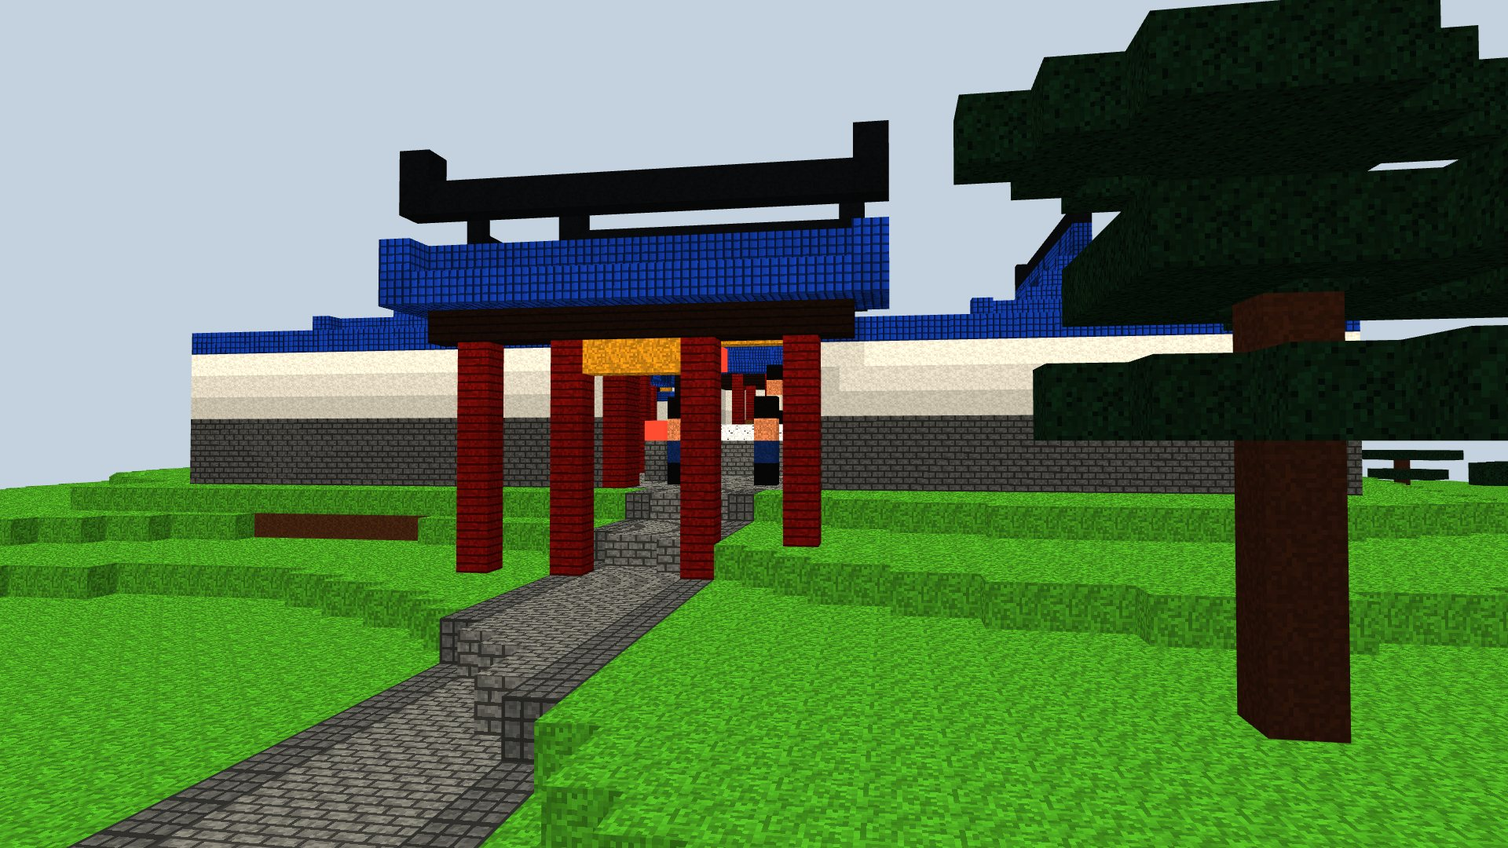
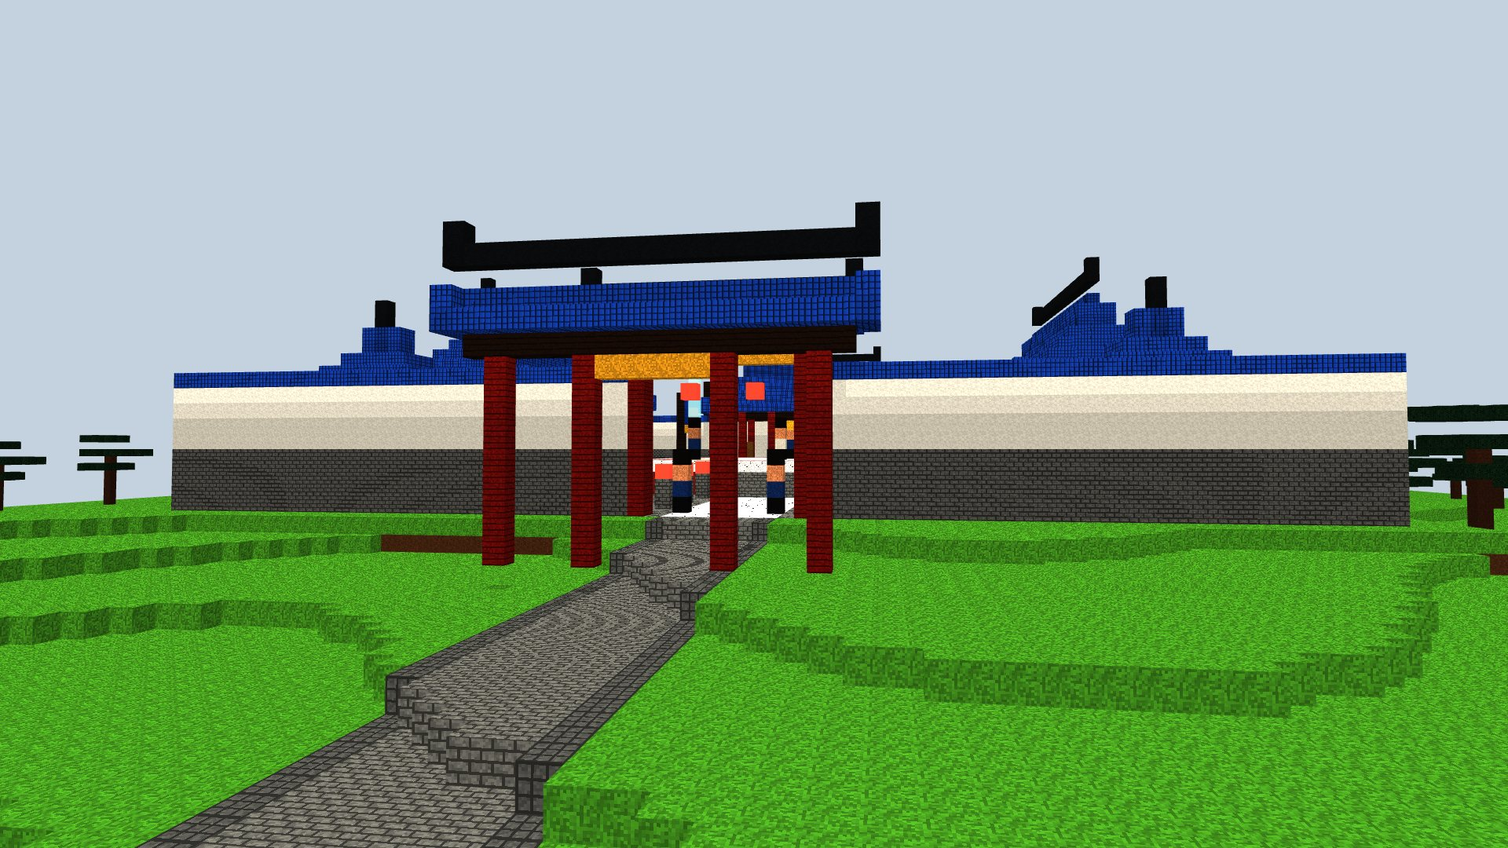
Enlarge the arena mock-up and let the captain summon his units
A 73 x 73 court and a 27 x 27 leitai, as Enzo asked, with four summoning
seals on the leitai and two troop halls for the captain's units.

diff --git a/scripts/concepts/arena.js b/scripts/concepts/arena.js
@@ -1,12 +1,15 @@
 // Voxel mock-up of the Orthodox Alliance's arena (docs/structures/alliance-arena.md), built with ST (st-runtime.js).
-// 1 voxel = 1 block. x east, z south, y up. A walled court round a leitai, the raised fighting platform of the Murim
-// where challenges are settled: whoever falls off loses. The captain waits on it. Stands east and west, the judges'
-// pavilion north, the gate and a paifang south.
+// 1 voxel = 1 block. x east, z south, y up. A great walled court round a leitai, the raised fighting platform of the
+// Murim where challenges are settled: whoever falls off loses. The captain waits on it and calls up his units: they
+// rise on the four summoning seals of the leitai and pour out of the two troop halls. Stands east and west, the
+// judges' pavilion north, the gate and a paifang south.
 window.ARENA = (() => {
   const S = ST;
   const P = 6;                 // the court
-  const W = 24;                // the walls (outer faces)
-  const L = 8, TOP = 3;        // half the leitai's side, its height above the court
+  const W = 36;                // the walls (outer faces): a court of 73 x 73
+  const L = 13, TOP = 3;       // half the leitai's side (27 x 27), its height above the court
+  const SEAL = 8;              // the summoning seals on the leitai, at (+-SEAL, +-SEAL)
+  const SF = L + 8, SB = W - 3, SZ = 18;   // the stands: front and back x, half their length
 
   function height(x, z) {
     const inside = Math.abs(x) <= W + 3 && z >= -W - 3 && z <= W + 3;
@@ -21,52 +24,68 @@ window.ARENA = (() => {
     S.fill(x + 1, y + h - 3, z, x + 1, y + h, z, 'banner_azure'); S.set(x + 1, y + h - 4, z, 'gold');
   }
 
-  /** A covered stand ({@code s}: -1 west, 1 east): three tiers rising away from the leitai, a gallery, columns, a roof. */
+  /** A covered stand (s: -1 west, 1 east): four tiers rising away from the leitai, a gallery, columns, a roof. */
   function stand(s) {
-    const front = 14 * s, back = 22 * s;
-    for (let z = -14; z <= 14; z++) {
-      for (let i = 0; i < 3; i++) S.fill(front + i * s, P + 1, z, front + i * s, P + 1 + i, z, 'stone_brick');
-      S.fill(Math.min(17 * s, back), P + 1, z, Math.max(17 * s, back), P + 3, z, 'stone_brick');
-      S.fill(Math.min(17 * s, back), P + 4, z, Math.max(17 * s, back), P + 4, z, 'wood_dark');
+    const front = SF * s, back = SB * s, gal = (SF + 4) * s;
+    for (let z = -SZ; z <= SZ; z++) {
+      for (let i = 0; i < 4; i++) S.fill(front + i * s, P + 1, z, front + i * s, P + 1 + i, z, 'stone_brick');
+      S.fill(Math.min(gal, back), P + 1, z, Math.max(gal, back), P + 4, z, 'stone_brick');
+      S.fill(Math.min(gal, back), P + 5, z, Math.max(gal, back), P + 5, z, 'wood_dark');
     }
-    for (let z = -14; z <= 14; z += 7) { S.fill(front, P + 1, z, front, P + 7, z, 'red'); S.fill(back, P + 5, z, back, P + 7, z, 'red'); }
-    for (let z = -14; z <= 14; z++) if (z % 7 !== 0) { S.fill(back, P + 5, z, back, P + 6, z, 'white'); S.set(back, P + 7, z, 'wood_dark'); }
-    S.roof(Math.min(front, back), -14, Math.max(front, back), 14, P + 8, { type: 'hip', mat: 'tile_azure', overhang: 2 });
+    for (let z = -SZ; z <= SZ; z += 6) { S.fill(front, P + 1, z, front, P + 9, z, 'red'); S.fill(back, P + 6, z, back, P + 9, z, 'red'); }
+    for (let z = -SZ; z <= SZ; z++) if (z % 6 !== 0) { S.fill(back, P + 6, z, back, P + 8, z, 'white'); S.set(back, P + 9, z, 'wood_dark'); }
+    S.roof(Math.min(front, back), -SZ, Math.max(front, back), SZ, P + 10, { type: 'hip', mat: 'tile_azure', overhang: 1 });
+  }
+
+  /** A troop hall in a south corner of the court (s: -1 west, 1 east), its wide doors open towards the leitai. */
+  function troopHall(s) {
+    const x0 = Math.min(22 * s, 32 * s), x1 = Math.max(22 * s, 32 * s), z0 = 23, z1 = 32;
+    S.fill(x0 - 1, P + 1, z0 - 1, x1 + 1, P + 1, z1 + 1, 'stone_brick');
+    for (let y = P + 2; y <= P + 6; y++) for (let x = x0; x <= x1; x++) for (let z = z0; z <= z1; z++) {
+      if (x !== x0 && x !== x1 && z !== z0 && z !== z1) continue;
+      const column = (x - x0) % 5 === 0 && (z === z0 || z === z1) || (z - z0) % 3 === 0 && (x === x0 || x === x1);
+      S.set(x, y, z, column ? 'red' : 'white');
+    }
+    for (let y = P + 2; y <= P + 5; y++) for (let i = 0; i < 5; i++) S.set((25 + i) * s, y, z0, 'wood_dark');   // the doors
+    for (let x = x0; x <= x1; x++) S.set(x, P + 6, z0, 'wood_dark');
+    S.roof(x0, z0, x1, z1, P + 7, { type: 'hip', mat: 'tile_azure', overhang: 2 });
+    banner(24 * s, P + 1, z0 - 2, 8);
   }
 
   function build() {
     S.clear();
     const r = S.seeded(777);
-    S.ground(-90, -80, 90, 100, height, () => 'grass', 'dirt', 3);
+    S.ground(-110, -100, 110, 120, height, () => 'grass', 'dirt', 3);
 
     // The road from the south, through a paifang, to the gate.
-    for (let z = W + 1; z <= 100; z++) for (let x = -2; x <= 2; x++) S.set(x, height(x, z), z, Math.abs(x) === 2 ? 'cobble' : 'stone_brick');
+    for (let z = W + 1; z <= 120; z++) for (let x = -3; x <= 3; x++) S.set(x, height(x, z), z, Math.abs(x) === 3 ? 'cobble' : 'stone_brick');
 
-    // The court: flagstones.
+    // The court: flagstones, a pale way from the gate to the leitai.
     S.fill(-W, P, -W, W, P, W, 'stone_brick');
     for (let x = -W + 2; x <= W - 2; x++) for (let z = -W + 2; z <= W - 2; z++) if (r() < 0.25) S.set(x, P, z, 'stone');
+    S.fill(-3, P, L + 1, 3, P, W, 'marble');
 
     // The walls: stone, white, azure coping; the gate passage open.
     for (let x = -W; x <= W; x++) for (let z = -W; z <= W; z++) {
       const ring = Math.min(x + W, W - x, z + W, W - z);
-      if (ring > 1 || (Math.abs(x) <= 3 && z >= W - 1)) continue;
-      S.fill(x, P + 1, z, x, P + 3, z, 'stone_brick');
-      S.fill(x, P + 4, z, x, P + 6, z, 'white');
-      S.set(x, P + 7, z, 'tile_azure');
+      if (ring > 1 || (Math.abs(x) <= 4 && z >= W - 1)) continue;
+      S.fill(x, P + 1, z, x, P + 4, z, 'stone_brick');
+      S.fill(x, P + 5, z, x, P + 8, z, 'white');
+      S.set(x, P + 9, z, 'tile_azure');
     }
-    for (const x of [-16, -8, 8, 16]) banner(x, P + 7, -W + 1, 5);
+    for (const x of [-26, -16, 16, 26]) banner(x, P + 9, -W + 1, 5);
 
-    // The gate: red posts, a dark lintel faced with gold, an azure roof.
-    for (const x of [-4, 4]) S.fill(x, P + 1, W - 1, x, P + 8, W, 'red');
-    S.fill(-5, P + 8, W - 1, 5, P + 8, W, 'wood_dark');
-    S.fill(-3, P + 7, W, 3, P + 7, W, 'gold');
-    S.roof(-5, W - 1, 5, W, P + 9, { type: 'gable', mat: 'tile_azure', overhang: 1 });
-    S.set(0, P + 6, W - 1, 'lantern');
+    // The gate: red posts, a dark lintel faced with gold, an azure roof, lanterns.
+    for (const x of [-5, 5]) S.fill(x, P + 1, W - 1, x, P + 11, W, 'red');
+    S.fill(-7, P + 11, W - 1, 7, P + 11, W, 'wood_dark');
+    S.fill(-4, P + 10, W, 4, P + 10, W, 'gold');
+    S.roof(-7, W - 1, 7, W, P + 12, { type: 'gable', mat: 'tile_azure', overhang: 1 });
+    for (const x of [-2, 2]) S.set(x, P + 8, W - 1, 'lantern');
     // The paifang where the road arrives.
-    const pz = W + 10, py = height(0, pz);
-    for (const x of [-5, -2, 2, 5]) S.fill(x, py + 1, pz, x, py + 7, pz, 'red');
-    S.fill(-6, py + 8, pz, 6, py + 8, pz, 'wood_dark'); S.fill(-1, py + 7, pz, 1, py + 7, pz, 'gold');
-    S.roof(-6, pz, 6, pz, py + 9, { type: 'gable', mat: 'tile_azure', overhang: 1 });
+    const pz = W + 14, py = height(0, pz);
+    for (const x of [-7, -3, 3, 7]) S.fill(x, py + 1, pz, x, py + 9, pz, 'red');
+    S.fill(-8, py + 10, pz, 8, py + 10, pz, 'wood_dark'); S.fill(-2, py + 9, pz, 2, py + 9, pz, 'gold');
+    S.roof(-8, pz, 8, pz, py + 11, { type: 'gable', mat: 'tile_azure', overhang: 1 });
 
     // ------------------------------------------------ the leitai
     const t = P + TOP;
@@ -76,63 +95,75 @@ window.ARENA = (() => {
       S.set(x, t, z, corner ? 'red' : 'marble');
       if (Math.max(Math.abs(x), Math.abs(z)) === L - 2) S.set(x, t, z, 'banner');   // the ring, in red
     }
-    for (const x of [-L, L]) for (const z of [-L, L]) { S.fill(x, t + 1, z, x, t + 4, z, 'red'); S.set(x, t + 5, z, 'lantern'); }
-    for (let i = 1; i <= TOP; i++) S.fill(-2, P + 1, L + i, 2, t - i, L + i, 'stone_brick');   // steps up from the gate side
-    // Banner poles at its corners.
-    for (const x of [-10, 10]) for (const z of [-10, 10]) banner(x, P, z, 9);
+    // The four summoning seals: gold rings on the leitai where the captain's units rise.
+    for (const sx of [-SEAL, SEAL]) for (const sz of [-SEAL, SEAL])
+      for (let dx = -1; dx <= 1; dx++) for (let dz = -1; dz <= 1; dz++) S.set(sx + dx, t, sz + dz, dx || dz ? 'gold' : 'tile_azure');
+    for (const x of [-L, L]) for (const z of [-L, L]) { S.fill(x, t + 1, z, x, t + 5, z, 'red'); S.set(x, t + 6, z, 'lantern'); }
+    for (let i = 1; i <= TOP; i++) S.fill(-3, P + 1, L + i, 3, t - i, L + i, 'stone_brick');   // steps up from the gate side
+    for (const x of [-L - 2, L + 2]) for (const z of [-L - 2, L + 2]) banner(x, P, z, 11);
 
-    // ------------------------------------------------ stands and the judges' pavilion
+    // ------------------------------------------------ stands, troop halls, the judges' pavilion
     stand(-1); stand(1);
-    // The pavilion: a raised floor, red columns open to the leitai, white walls, an azure hip roof.
-    S.fill(-9, P + 1, -22, 9, P + 2, -15, 'stone_brick');
-    S.fill(-3, P + 1, -14, 3, P + 1, -13, 'stone_brick');
-    S.fill(-3, P + 2, -14, 3, P + 2, -14, 'stone_brick');
-    for (let y = P + 3; y <= P + 8; y++) for (let x = -9; x <= 9; x++) for (let z = -22; z <= -15; z++) {
-      const back = z === -22, side = Math.abs(x) === 9, front = z === -15;
-      const column = (front || back) && Math.abs(x) % 3 === 0 || side && (back || front);
+    troopHall(-1); troopHall(1);
+    const pz0 = -W + 3, pz1 = -W + 11, px = 13;
+    S.fill(-px, P + 1, pz0, px, P + 2, pz1, 'stone_brick');
+    for (let i = 1; i <= 2; i++) S.fill(-4, P + 1, pz1 + i, 4, P + 3 - i, pz1 + i, 'stone_brick');
+    for (let y = P + 3; y <= P + 9; y++) for (let x = -px; x <= px; x++) for (let z = pz0; z <= pz1; z++) {
+      const back = z === pz0, side = Math.abs(x) === px, front = z === pz1;
+      const column = (front || back) && Math.abs(x) % 4 === 1 || side && (back || front);
       if (column) S.set(x, y, z, 'red');
-      else if (y === P + 8 && (front || back || side)) S.set(x, y, z, 'wood_dark');
+      else if (y === P + 9 && (front || back || side)) S.set(x, y, z, 'wood_dark');
       else if (back || side) S.set(x, y, z, 'white');
     }
-    S.roof(-9, -22, 9, -15, P + 9, { type: 'hip', mat: 'tile_azure', overhang: 2 });
-    // The captain's seat between gold, the Alliance's banners behind it, two bells.
-    S.set(0, P + 3, -21, 'wood_dark'); S.set(0, P + 4, -21, 'wood_dark'); S.set(-1, P + 3, -21, 'gold'); S.set(1, P + 3, -21, 'gold');
-    for (const x of [-4, -2, 2, 4]) S.fill(x, P + 4, -21, x, P + 6, -21, 'banner_azure');
-    for (const x of [-6, 6]) S.fill(x, P + 3, -20, x, P + 4, -20, 'bronze');
+    S.roof(-px, pz0, px, pz1, P + 10, { type: 'hip', mat: 'tile_azure', overhang: 2 });
+    // The captain's seat between gold, the Alliance's banners behind it, two great bells.
+    S.set(0, P + 3, pz0 + 1, 'wood_dark'); S.set(0, P + 4, pz0 + 1, 'wood_dark'); S.set(-1, P + 3, pz0 + 1, 'gold'); S.set(1, P + 3, pz0 + 1, 'gold');
+    for (const x of [-6, -3, 3, 6]) S.fill(x, P + 4, pz0 + 1, x, P + 7, pz0 + 1, 'banner_azure');
+    for (const x of [-9, 9]) S.fill(x, P + 3, pz0 + 2, x, P + 5, pz0 + 2, 'bronze');
 
     // ------------------------------------------------ round the court
-    for (const x of [-11, 11]) { S.set(x, P + 1, 17, 'stone_brick'); S.set(x, P + 2, 17, 'fire'); }          // braziers
-    for (const x of [-7, 7]) { S.set(x, P + 1, 20, 'wood_dark'); S.set(x, P + 2, 20, 'red_wall'); }          // war drums
-    for (const x0 of [-12, 9]) for (let i = 0; i < 4; i++) { S.set(x0 + i, P + 1, 21, 'wood_dark'); S.set(x0 + i, P + 2, 21, i % 2 ? 'armor' : 'wood_light'); }
-    for (const z of [14, 18]) for (const x of [-4, 4]) { S.fill(x, P + 1, z, x, P + 2, z, 'stone_brick'); S.set(x, P + 3, z, 'lantern'); }
+    for (const x of [-12, 12]) for (const z of [20, 28]) { S.set(x, P + 1, z, 'stone_brick'); S.set(x, P + 2, z, 'fire'); }   // braziers
+    for (const x of [-8, 8]) { S.set(x, P + 1, 31, 'wood_dark'); S.fill(x, P + 2, 31, x, P + 3, 31, 'red_wall'); }            // war drums
+    for (const x0 of [-20, 17]) for (let i = 0; i < 4; i++) { S.set(x0 + i, P + 1, -W + 2, 'wood_dark'); S.set(x0 + i, P + 2, -W + 2, i % 2 ? 'armor' : 'wood_light'); }
+    for (const z of [18, 24, 30]) for (const x of [-5, 5]) { S.fill(x, P + 1, z, x, P + 2, z, 'stone_brick'); S.set(x, P + 3, z, 'lantern'); }
 
     // ------------------------------------------------ people
-    S.person(0, t, 0, 'robe_blue', 'gold');                                // the captain, on the leitai
-    S.person(0, t, 4, 'robe_white');                                       // a challenger
-    for (const x of [-2, 2]) S.person(x, P, 21, 'robe_blue', 'hair');      // guards at the gate
-    for (const [x, z] of [[-19, -6], [-19, 2], [-15, 6], [-16, -10], [19, 0], [15, -4], [16, 8], [20, -10]])
-      S.person(x, x < 0 ? (x <= -17 ? P + 4 : P + 1 + (-14 - x)) : (x >= 17 ? P + 4 : P + 1 + (x - 14)), z, r() < 0.5 ? 'robe_white' : 'robe_blue');
+    S.person(0, t, -2, 'robe_blue', 'gold');                               // the captain, on the leitai
+    S.person(0, t, 6, 'robe_white');                                       // a challenger
+    // His units, called up: one on each seal, in a pillar of Qi; more pouring out of the troop halls.
+    for (const sx of [-SEAL, SEAL]) for (const sz of [-SEAL, SEAL]) {
+      S.person(sx, t, sz, 'robe_blue', 'hair');
+      for (let y = t + 5; y <= t + 9; y++) if (r() < 0.7) S.set(sx, y, sz, 'qi');
+    }
+    for (const s of [-1, 1]) for (const [x, z] of [[24, 20], [27, 19], [30, 21], [26, 16]]) S.person(x * s, P, z, 'robe_blue', 'hair');
+    for (const x of [-3, 3]) S.person(x, P, W - 3, 'robe_blue', 'hair');      // guards at the gate
+    for (let k = 0; k < 20; k++) {                                           // spectators on the stands
+      const s = k % 2 ? 1 : -1, tier = Math.floor(r() * 5), z = Math.round((r() - 0.5) * SZ * 2);
+      const x = tier < 4 ? (SF + tier) * s : (SF + 6 + Math.floor(r() * 4)) * s, y = tier < 4 ? P + 1 + tier : P + 5;
+      S.person(x, y, z, r() < 0.5 ? 'robe_white' : 'robe_blue');
+    }
 
     // Pines round about.
-    for (let k = 0; k < 40; k++) {
-      const x = Math.round((r() - 0.5) * 170), z = Math.round(-75 + r() * 170);
-      if (Math.abs(x) < 32 && z > -32 && z < 44) continue;
-      if (Math.abs(x) < 5) continue;
+    for (let k = 0; k < 50; k++) {
+      const x = Math.round((r() - 0.5) * 210), z = Math.round(-95 + r() * 210);
+      if (Math.abs(x) < 46 && z > -46 && z < 60) continue;
+      if (Math.abs(x) < 6) continue;
       S.pine(x, height(x, z), z, 5 + Math.floor(r() * 4), r);
     }
   }
 
   // ---------------------------------------------------------------- views
   const SKY = '#C3D2DE';
-  function overview() { build(); return { view: { unclamped: true, position: [70, 52, 82], target: [0, 6, 0], fov: 50 }, sky: SKY, fog: [260, 700] }; }
-  function gate() { build(); return { view: { unclamped: true, position: [8, 9, 58], target: [0, 10, 10], fov: 55 }, sky: SKY, fog: [200, 600] }; }
-  function leitai() { build(); return { view: { unclamped: true, position: [3, 21, 21], target: [0, 9, -8], fov: 62 }, sky: SKY, fog: [200, 600] }; }
+  function overview() { build(); return { view: { unclamped: true, position: [100, 72, 118], target: [0, 6, 0], fov: 50 }, sky: SKY, fog: [320, 800] }; }
+  function gate() { build(); return { view: { unclamped: true, position: [10, 11, 84], target: [0, 13, 20], fov: 55 }, sky: SKY, fog: [240, 700] }; }
+  function leitai() { build(); return { view: { unclamped: true, position: [4, 26, 30], target: [0, 9, -10], fov: 64 }, sky: SKY, fog: [240, 700] }; }
   function plan() {
     build();
     const marks = [
-      ['1', 0, P + 12, W], ['2', 0, P + 12, W + 10], ['3', 0, P + 8, 0], ['4', -18, P + 14, 0], ['5', 18, P + 14, 0],
-      ['6', 0, P + 16, -18], ['7', 10, P + 12, -10], ['8', -11, P + 5, 17], ['9', 7, P + 5, 20], ['10', 10, P + 5, 21]];
-    return { view: { unclamped: true, position: [0, 105, 62], target: [0, 6, 2], fov: 56 }, sky: SKY, fog: [400, 900], marks };
+      ['1', 0, P + 15, W], ['2', 0, P + 16, W + 14], ['3', 0, P + 9, 2], ['4', -27, P + 17, 0], ['5', 27, P + 17, 0],
+      ['6', 0, P + 19, -W + 7], ['7', SEAL, P + 9, SEAL], ['8', -27, P + 14, 27], ['9', 27, P + 14, 27],
+      ['10', L + 2, P + 15, -L - 2], ['11', -12, P + 6, 24], ['12', 8, P + 7, 31]];
+    return { view: { unclamped: true, position: [0, 150, 90], target: [0, 6, 4], fov: 56 }, sky: SKY, fog: [500, 1100], marks };
   }
 
   return { overview, gate, leitai, plan };

diff --git a/docs/structures/alliance-arena.md b/docs/structures/alliance-arena.md
@@ -1,12 +1,13 @@
 # Arène de l'Alliance orthodoxe — maquettes (proposition à valider par Enzo)
 
-> Demande d'Enzo du 15/10/2026 : « crée une structure pour l'Alliance, une sorte d'arène où il y aura le capitaine
-> dedans, une arène dans le style Murim », puis « fais-moi une maquette avant de construire quoi que ce soit ».
+> Demandes d'Enzo du 15/10/2026 : « crée une structure pour l'Alliance, une sorte d'arène où il y aura le capitaine
+> dedans, une arène dans le style Murim » ; « fais-moi une maquette avant de construire quoi que ce soit » ; « plus
+> grande l'arène, le boss pourra invoquer des unités ».
 >
-> **Statut : maquettes voxel, rien n'est construit en jeu.** Même couleurs que l'[avant-poste](alliance-outpost.md) :
+> **Statut : maquettes voxel, rien n'est construit en jeu.** Mêmes couleurs que l'[avant-poste](alliance-outpost.md) :
 > tuiles azur, ornements or, colonnes rouges, murs blancs. Le capitaine est le boss de l'Alliance de la session
 > « design » (`murimblock:peak_captain`, pas encore sur `test`), qui se bat avec la
-> [Lance du Pic Céleste](../combat/styles/celestial-peak-spear.md).
+> [Lance du Pic Céleste](../combat/styles/celestial-peak-spear.md) ; l'invocation d'unités est à ajouter à son combat.
 >
 > Maquettes : `node scripts/concepts/render-arena.cjs` (Blockbench isolé, `--port=` ; port 9232 par défaut), scène
 > dans `scripts/concepts/arena.js`. 1 voxel = 1 bloc. Les PNG rendus ont été convertis en JPG pour la doc.
@@ -16,11 +17,13 @@
 ## L'idée
 
 Un **leitai** (擂台), l'estrade de combat des romans Murim : une plateforme carrée surélevée où l'on règle les défis
-devant tout le monde ; **qui tombe de l'estrade a perdu**. L'Alliance y éprouve ses disciples et y reçoit les
-défis des inconnus. Le capitaine y attend, debout au centre : on monte les marches pour l'affronter.
+devant tout le monde ; **qui tombe de l'estrade a perdu**. L'Alliance y éprouve ses disciples et y reçoit les défis
+des inconnus. Le capitaine attend au centre. Pendant le combat, il **appelle ses unités** : elles surgissent dans une
+colonne de Qi sur les quatre sceaux dorés du leitai, et d'autres sortent en renfort des deux salles des troupes.
 
-- **Dimensions** : une cour fermée de **49 × 49 blocs** ; le leitai fait **17 × 17**, son plateau 3 blocs au-dessus
-  de la cour. Avec la route et l'arche, le site tient dans 57 × 71 blocs.
+- **Dimensions** : une cour fermée de **73 × 73 blocs** (murs de 10 de haut) ; le leitai fait **27 × 27**, son plateau
+  3 blocs au-dessus de la cour, assez large pour se battre contre le capitaine et quatre unités à la fois. Avec la
+  route et l'arche, le site tient dans environ 80 × 100 blocs.
 - **Où** : comme l'avant-poste, dans n'importe quel biome Murim mais **seulement au centre de la carte ou près
   d'une frontière entre régions** (les terres de l'Alliance). Plus rare que l'avant-poste.
 
@@ -30,16 +33,18 @@ défis des inconnus. Le capitaine y attend, debout au centre : on monte les marc
 
 | N° | Lieu | Ce que c'est | Qui y est |
 |---|---|---|---|
-| 1 | Porte | Poteaux rouges, linteau sombre à bandeau or, toit azur, lanterne | Deux gardes à la lance |
-| 2 | Arche (paifang) sur la route | Annonce l'arène à 10 blocs de la porte | — |
-| 3 | **Le leitai** | 17 × 17, jupe de planches rouges entre poteaux rouges, plateau de pierre lisse, cercle de combat tracé en rouge, une lanterne sur chaque poteau d'angle, marches côté porte | **Le capitaine**, au centre, face à la porte |
-| 4 | Tribune ouest | Trois gradins de pierre, une galerie derrière, colonnes rouges, grand toit azur | Disciples spectateurs |
+| 1 | Porte | Poteaux rouges de 11 blocs, linteau sombre à bandeau or, toit azur, lanternes | Deux gardes à la lance |
+| 2 | Arche (paifang) sur la route | Annonce l'arène à 14 blocs de la porte | — |
+| 3 | **Le leitai** | 27 × 27, jupe rouge entre poteaux rouges, plateau de pierre claire, cercle de combat tracé en rouge, une lanterne sur chaque poteau d'angle, marches côté porte | **Le capitaine**, au centre, face à la porte |
+| 4 | Tribune ouest | Quatre gradins de pierre, une galerie derrière, colonnes rouges, grand toit azur | Disciples spectateurs |
 | 5 | Tribune est | Pareille | Disciples spectateurs |
-| 6 | Pavillon des juges | Plancher surélevé ouvert sur le leitai, murs blancs, siège du capitaine entre deux blocs d'or, bannières de l'Alliance, deux cloches, la cache du site | — |
-| 7 | Mâts à bannières | Quatre mâts aux angles du leitai, bannières azur | — |
-| 8 | Braseros | Deux feux sur socles de pierre près de la porte | — |
-| 9 | Tambours de guerre | Deux tambours sur pieds, de part et d'autre de l'allée | — |
-| 10 | Râteliers | Armes contre le mur sud | — |
+| 6 | Pavillon des juges | Plancher surélevé ouvert sur le leitai, murs blancs, siège du capitaine entre deux blocs d'or, bannières de l'Alliance, deux grandes cloches, la cache du site | — |
+| 7 | **Sceaux d'invocation** (4) | Cercles d'or sur le leitai : les unités du capitaine y apparaissent dans une colonne de Qi | Unités invoquées |
+| 8 | Salle des troupes ouest | Grande porte tournée vers le leitai : d'autres renforts en sortent | Unités invoquées |
+| 9 | Salle des troupes est | Pareille | Unités invoquées |
+| 10 | Mâts à bannières | Quatre mâts aux angles du leitai | — |
+| 11 | Braseros | Quatre feux sur socles de pierre dans l'allée | — |
+| 12 | Tambours de guerre | Deux tambours près de la porte ; contre le mur nord, des râteliers d'armes | — |
 
 ## Vues
 
@@ -47,7 +52,8 @@ défis des inconnus. Le capitaine y attend, debout au centre : on monte les marc
 
 ![Depuis la route](images/alliance-arena/gate.jpg)
 
-**Le leitai** : le cercle rouge, le capitaine (coiffe dorée) face à un challenger, les tribunes, le pavillon des juges au fond.
+**Le leitai pendant le combat** : le capitaine (coiffe dorée) face à un challenger, ses quatre unités qui surgissent
+sur les sceaux, les tribunes pleines, le pavillon des juges au fond.
 
 ![Le leitai](images/alliance-arena/leitai.jpg)
 
@@ -56,12 +62,17 @@ défis des inconnus. Le capitaine y attend, debout au centre : on monte les marc
 - Un site comme les autres (`murimblock:alliance_arena`), construit en code bloc par bloc, trouvé par `/locate`.
 - **Matériaux prévus** : briques de pierre et calcite pour les murs, tuiles azur pour les toits, manglier écorcé
   (rouge) pour les colonnes et la jupe du leitai, pierre lisse pour le plateau, tapis rouge pour le cercle, bloc de
-  rayon de miel pour l'or, chêne noir pour les poutres et les mâts, cloches, feux de camp, tonneaux.
-- **Habitants** : le capitaine au centre du leitai ; deux gardes à la lance à la porte ; deux disciples à l'épée dans
+  rayon de miel pour l'or des sceaux et des bandeaux, chêne noir pour les poutres et les mâts, cloches, feux de camp,
+  tonneaux.
+- **Habitants** : le capitaine au centre du leitai ; deux gardes à la lance à la porte ; des disciples à l'épée dans
   les tribunes. Tant que le capitaine n'est pas sur `test`, un sergent de l'Alliance tiendrait sa place.
+- **L'invocation** fait partie du combat du capitaine (session « design ») ; l'arène fournit les points d'apparition :
+  les quatre sceaux et les portes des deux salles des troupes.
 
 ## Questions pour Enzo
 
+- Quelles unités le capitaine invoque-t-il (gardes à la lance, disciples à l'épée, archers sur les tribunes ?), combien
+  à la fois, et à quel moment (à chaque tiers de sa vie ? toutes les 30 secondes ?) ?
 - Le capitaine attaque-t-il dès qu'on monte sur le leitai, ou faut-il le défier (clic droit, comme Sensei Yun) ?
 - Tomber du leitai fait-il perdre le duel (le capitaine reprend sa place, le joueur doit remonter) ?
 - Les disciples des tribunes se battent-ils aussi, ou regardent-ils seulement ?

diff --git a/docs/structures/README.md b/docs/structures/README.md
@@ -8,7 +8,7 @@ Maquettes voxel d'une capitale immense sur trois niveaux (ville basse habitée, 
 
 ## Prévu : l'arène de l'Alliance (15/10/2026)
 
-Maquettes voxel d'une arène de style Murim : un leitai de 17 × 17 (l'estrade de combat où le capitaine attend), deux tribunes couvertes, le pavillon des juges, la porte et une arche, avec son plan numéroté : [alliance-arena.md](alliance-arena.md). Rien n'est construit en jeu, en attente de validation.
+Maquettes voxel d'une grande arène de style Murim (cour de 73 × 73) : un leitai de 27 × 27 (l'estrade de combat où le capitaine attend et invoque ses unités sur quatre sceaux), deux tribunes couvertes, deux salles des troupes, le pavillon des juges, la porte et une arche, avec son plan numéroté : [alliance-arena.md](alliance-arena.md). Rien n'est construit en jeu, en attente de validation.
 
 ![L'arène de l'Alliance, maquette](images/alliance-arena/overview.jpg)
 
